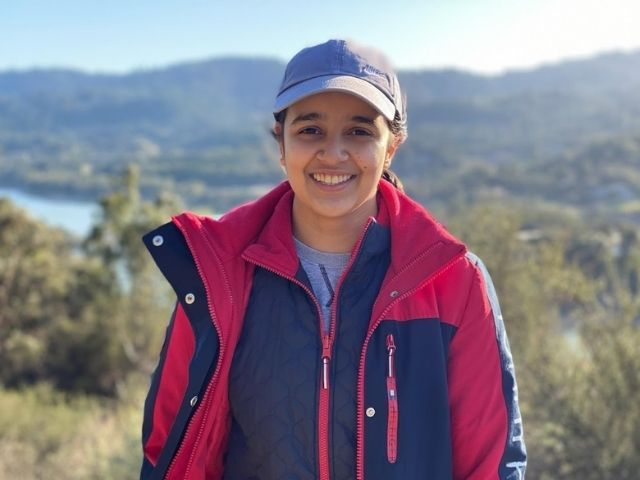
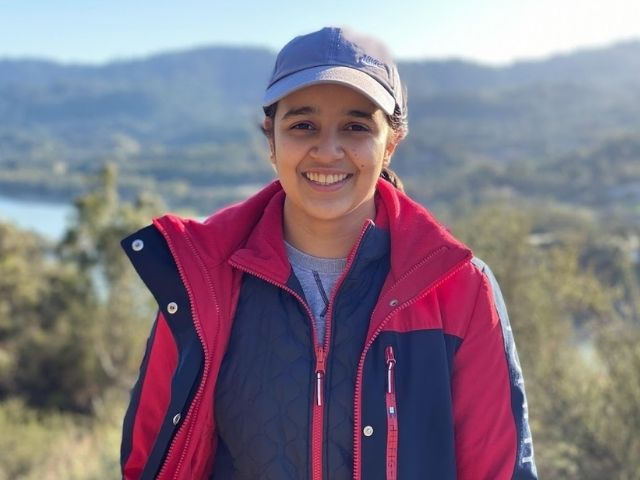
Updated ALL Team squares, proper socials, names, pictures, alt. text.
Fixed weird spacing in prizes section

diff --git a/index.html b/index.html
@@ -531,7 +531,7 @@
           <div class="row">
             <div class="col-lg-4 col-md-6">
               <div class="speaker" data-aos="fade-up" data-aos-delay="100">
-                <img src="assets/img/team/Anishka.jpg" alt="Speaker 1" class="img-fluid">
+                <img src="assets/img/team/Anishka.jpg" alt="Anishka" class="img-fluid">
                 <div class="details">
                   <h3><a href="speaker-details.html">Anishka</a></h3>
                   <p>Lead Organizer</p>
@@ -544,7 +544,7 @@
             </div>
             <div class="col-lg-4 col-md-6">
               <div class="speaker" data-aos="fade-up" data-aos-delay="200">
-                <img src="assets/img/team/Arno.jpg" alt="Speaker 2" class="img-fluid">
+                <img src="assets/img/team/Arno.jpg" alt="Arno" class="img-fluid">
                 <div class="details">
                   <h3><a href="speaker-details.html">Arno</a></h3>
                   <p>Tech Team</p>
@@ -559,7 +559,7 @@
             </div>
             <div class="col-lg-4 col-md-6">
               <div class="speaker" data-aos="fade-up" data-aos-delay="300">
-                <img src="assets/img/team/Akshat.jpg" alt="Speaker 3" class="img-fluid">
+                <img src="assets/img/team/Akshat.jpg" alt="Akshat" class="img-fluid">
                 <div class="details">
                   <h3><a href="speaker-details.html">Akshat</a></h3>
                   <p>Tech Team</p>
@@ -572,24 +572,24 @@
                 </div>
               </div>
             </div>
-            <div class="col-lg-4 col-md-6">
+            <!--<div class="col-lg-4 col-md-6">
               <div class="speaker" data-aos="fade-up" data-aos-delay="100">
-                <img src="assets/img/speakers/4.jpg" alt="Speaker 4" class="img-fluid">
+                <img src="assets/img/speakers/4.jpg" alt="Daren" class="img-fluid">
                 <div class="details">
                   <h3><a href="speaker-details.html">Daren</a></h3>
                   <p>Debitis iure vero</p>
                   <div class="social">
-                    <!--<a href=""><i class="fa fa-twitter"></i></a>
+                    <a href=""><i class="fa fa-twitter"></i></a>
                     <a href=""><i class="fa fa-facebook"></i></a>
                     <a href=""><i class="fa fa-google-plus"></i></a>
-                    <a href=""><i class="fa fa-linkedin"></i></a>-->
+                    <a href=""><i class="fa fa-linkedin"></i></a>
                   </div>
                 </div>
               </div>
-            </div>
+            </div> -->
             <div class="col-lg-4 col-md-6">
               <div class="speaker" data-aos="fade-up" data-aos-delay="200">
-                <img src="assets/img/team/Dhruv.jpg" alt="Speaker 5" class="img-fluid">
+                <img src="assets/img/team/Dhruv.jpg" alt="Dhruv" class="img-fluid">
                 <div class="details">
                   <h3><a href="speaker-details.html">Dhruv</a></h3>
                   <p>Tech Team</p>
@@ -604,7 +604,7 @@
             </div>
             <div class="col-lg-4 col-md-6">
               <div class="speaker" data-aos="fade-up" data-aos-delay="300">
-                <img src="assets/img/team/Gayatri.jpg" alt="Speaker 6" class="img-fluid">
+                <img src="assets/img/team/Gayatri.jpg" alt="Gayatri" class="img-fluid">
                 <div class="details">
                   <h3><a href="speaker-details.html">Gayatri</a></h3>
                   <p>Budget and Logistics</p>
@@ -619,7 +619,7 @@
             </div>
             <div class="col-lg-4 col-md-6">
               <div class="speaker" data-aos="fade-up" data-aos-delay="300">
-                <img src="assets/img/team/Namrita.jpg" alt="Speaker 6" class="img-fluid">
+                <img src="assets/img/team/Namrita.jpg" alt="Namrita" class="img-fluid">
                 <div class="details">
                   <h3><a href="speaker-details.html">Namrita</a></h3>
                   <p>Budget and Outreach</p>
@@ -634,13 +634,13 @@
             </div>
             <div class="col-lg-4 col-md-6">
               <div class="speaker" data-aos="fade-up" data-aos-delay="300">
-                <img src="assets/img/speakers/6.jpg" alt="Speaker 6" class="img-fluid">
+                <img src="assets/img/team/Prabir.jpg" alt="Prabir" class="img-fluid">
                 <div class="details">
                   <h3><a href="speaker-details.html">Prabir</a></h3>
-                  <p>Non autem dicta</p>
+                  <p>Tech Team</p>
                   <div class="social">
-                    <!--<a href=""><i class="fa fa-twitter"></i></a>
-                    <a href=""><i class="fa fa-facebook"></i></a>
+                    <a href="https://www.instagram.com/prabir.deo/"><i class="fa fa-instagram"></i></a>
+                    <!--<a href=""><i class="fa fa-facebook"></i></a>
                     <a href=""><i class="fa fa-google-plus"></i></a>
                     <a href=""><i class="fa fa-linkedin"></i></a>-->
                   </div>
@@ -649,13 +649,13 @@
             </div>
             <div class="col-lg-4 col-md-6">
               <div class="speaker" data-aos="fade-up" data-aos-delay="300">
-                <img src="assets/img/speakers/6.jpg" alt="Speaker 6" class="img-fluid">
+                <img src="assets/img/team/Vidhya.jpg" alt="Vidhya" class="img-fluid">
                 <div class="details">
                   <h3><a href="speaker-details.html">Vidhya</a></h3>
-                  <p>Non autem dicta</p>
+                  <p>Publicity</p>
                   <div class="social">
-                    <!--<a href=""><i class="fa fa-twitter"></i></a>
-                    <a href=""><i class="fa fa-facebook"></i></a>
+                    <a href="https://www.instagram.com/vidhyav9/"><i class="fa fa-instagram"></i></a>
+                    <!--<a href=""><i class="fa fa-facebook"></i></a>
                     <a href=""><i class="fa fa-google-plus"></i></a>
                     <a href=""><i class="fa fa-linkedin"></i></a>-->
                   </div>
@@ -794,7 +794,7 @@
                 <hr>
                 <ul class="fa-ul">
                   <li><span class="fa-li"></span>Galaxy Tab</li>
-                  <li>&nbsp</li> <!--empty list item to match column lengths -->
+                  <!--<li>&nbsp</li> <!--empty list item to match column lengths -->
                 </ul>
                 <hr>
                 <div class = "equivalent">
@@ -812,7 +812,7 @@
                 <hr>
                 <ul class="fa-ul">
                   <li><span class="fa-li"></span>Airpods</li>
-                  <li>&nbsp</li> <!--empty list item to match column lengths -->
+                  <!--<li>&nbsp</li> <!--empty list item to match column lengths -->
                 </ul>
                 <hr>
                 <div class = "equivalent">
@@ -868,7 +868,7 @@
             <div class="card mb-5 mb-lg-0 text-center">
               <div class="card-body">
                 <h6 class="card-price">Crowd favorite</h6>
-                <h6 class="card-price">&nbsp</h6> <!--empty header item to match column lengths -->
+                <!--<h6 class="card-price">&nbsp</h6> <!--empty header item to match column lengths -->
                 <hr>
                 <ul class="fa-ul">
                   <li><span class="fa-li"></span>Gift Basket</li>
